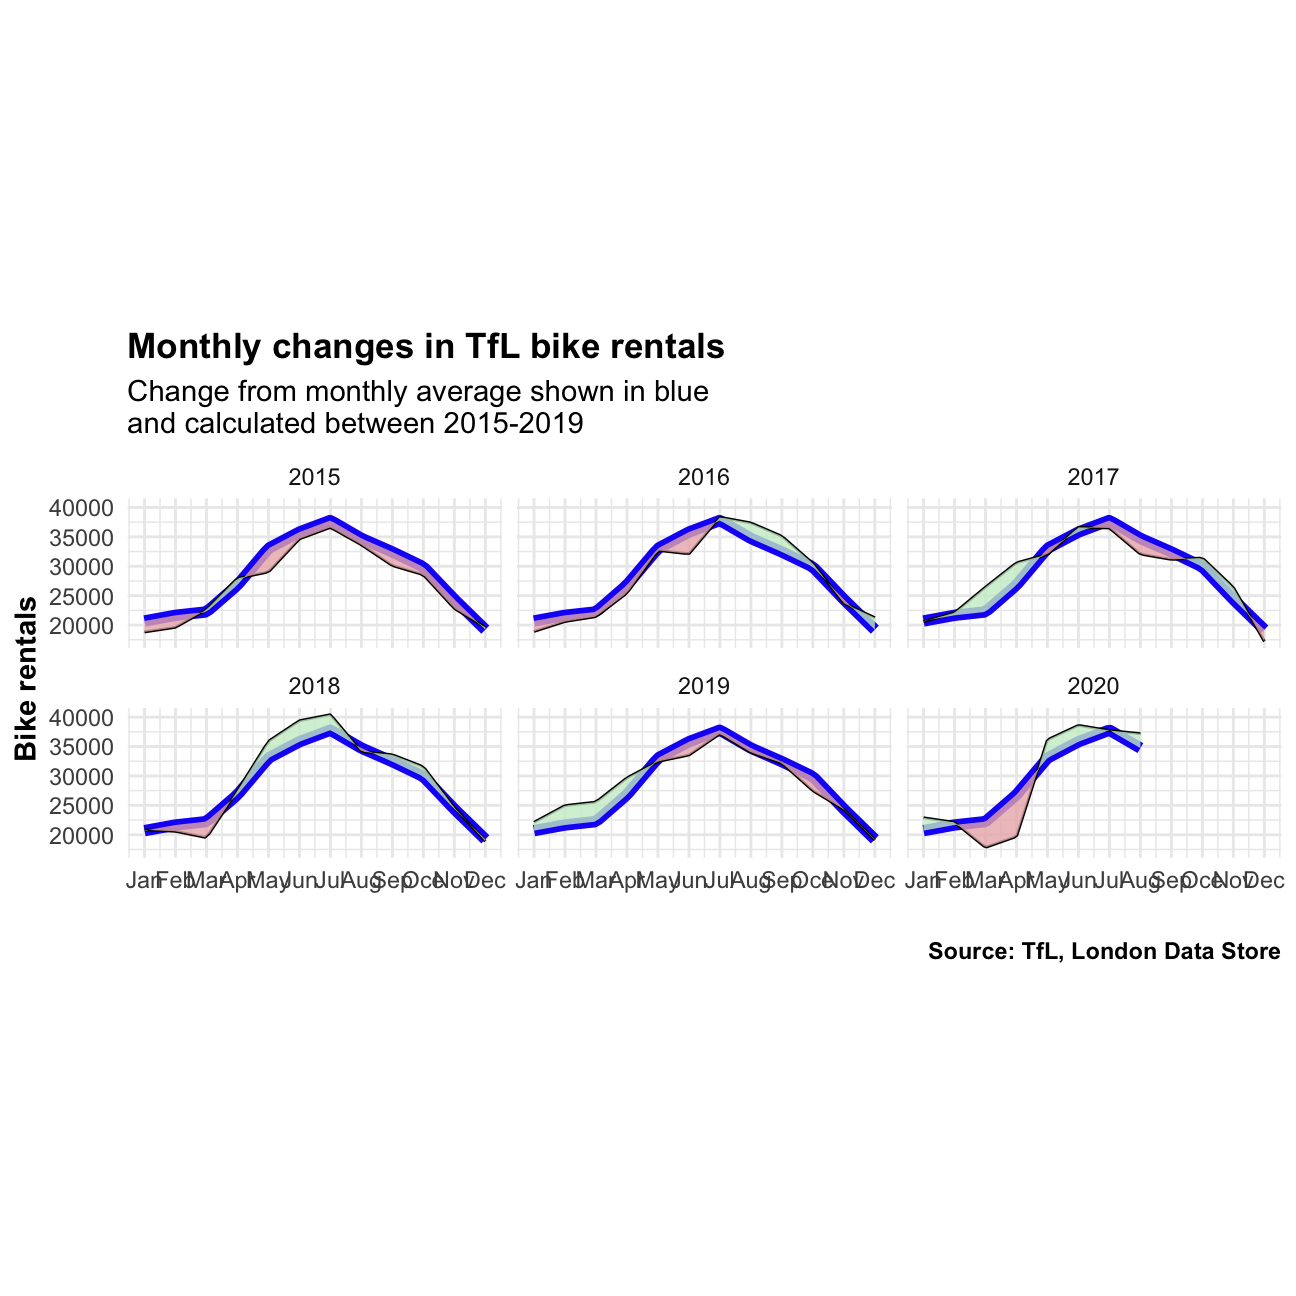
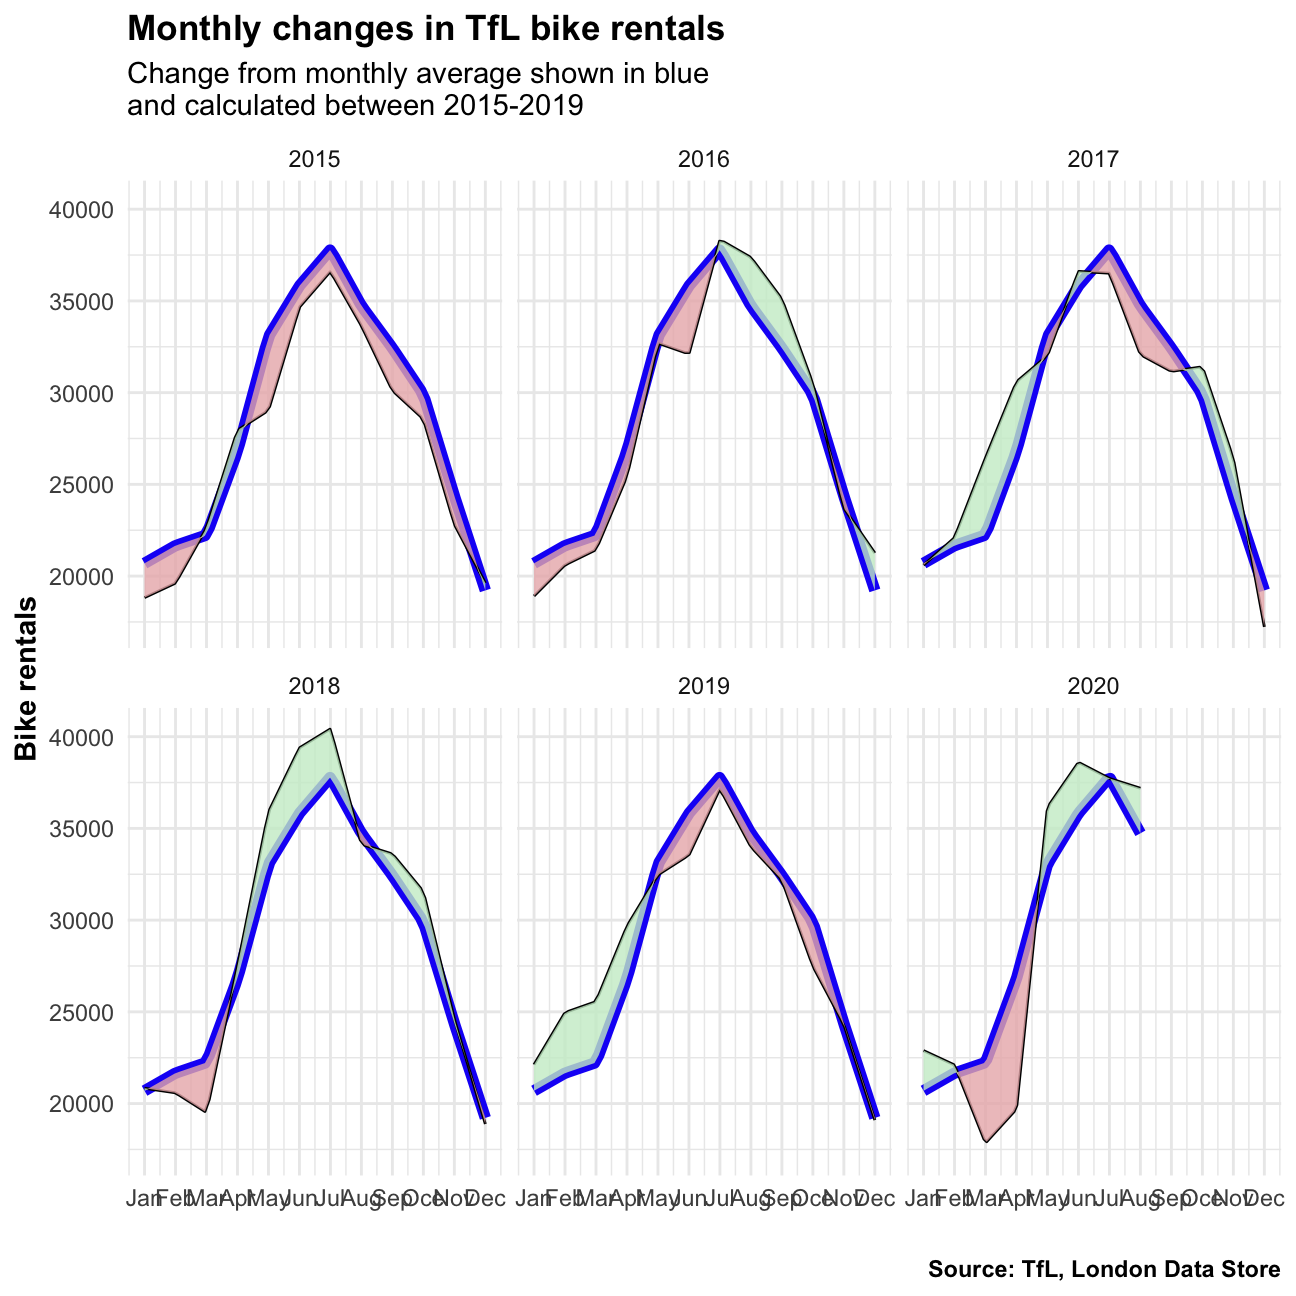
last changes

diff --git a/content/blogs/blog2.md.html b/content/blogs/blog2.md.html
@@ -101,8 +101,8 @@ challenge2.1 &lt;- ggplot(bike_interp, aes(x = nat.x,y= nat.y)) +  facet_wrap(~y
   #making titles bold
   theme(plot.title = element_text(face = &quot;bold&quot;),
         axis.title = element_text(face = &quot;bold&quot;),
-        plot.caption = element_text(face = &quot;bold&quot;)) +
-  theme(aspect.ratio=2/5)
+        plot.caption = element_text(face = &quot;bold&quot;)) #+
+  #theme(aspect.ratio=2/5)
 
 #showing plot
 challenge2.1</code></pre>

diff --git a/public/blogs/magna/index.html b/public/blogs/magna/index.html
@@ -165,8 +165,8 @@ challenge2.1 &lt;- ggplot(bike_interp, aes(x = nat.x,y= nat.y)) +  facet_wrap(~y
   #making titles bold
   theme(plot.title = element_text(face = &quot;bold&quot;),
         axis.title = element_text(face = &quot;bold&quot;),
-        plot.caption = element_text(face = &quot;bold&quot;)) +
-  theme(aspect.ratio=2/5)
+        plot.caption = element_text(face = &quot;bold&quot;)) #+
+  #theme(aspect.ratio=2/5)
 
 #showing plot
 challenge2.1</code></pre>

diff --git a/content/blogs/blog1.md.html b/content/blogs/blog1.md.html
@@ -132,7 +132,7 @@ hillary</code></pre>
 hillary_trump_top10 &lt;- hillary + trump +
   plot_annotation(title = &quot;Where did candidates raise most money?&quot;, caption = &quot;Amount Raised&quot;) 
   theme_update(plot.title = element_text(size = 10, hjust = 0.1, face = &quot;bold&quot;),
-               aspect.ratio = 2/1,
+               #aspect.ratio = 2/1,
                plot.caption = element_text(hjust = 0.55, vjust = 0.5, face = &quot;bold&quot;))
 
 

diff --git a/public/blogs/ipsum/index.html b/public/blogs/ipsum/index.html
@@ -196,7 +196,7 @@ hillary</code></pre>
 hillary_trump_top10 &lt;- hillary + trump +
   plot_annotation(title = &quot;Where did candidates raise most money?&quot;, caption = &quot;Amount Raised&quot;) 
   theme_update(plot.title = element_text(size = 10, hjust = 0.1, face = &quot;bold&quot;),
-               aspect.ratio = 2/1,
+               #aspect.ratio = 2/1,
                plot.caption = element_text(hjust = 0.55, vjust = 0.5, face = &quot;bold&quot;))
 
 
